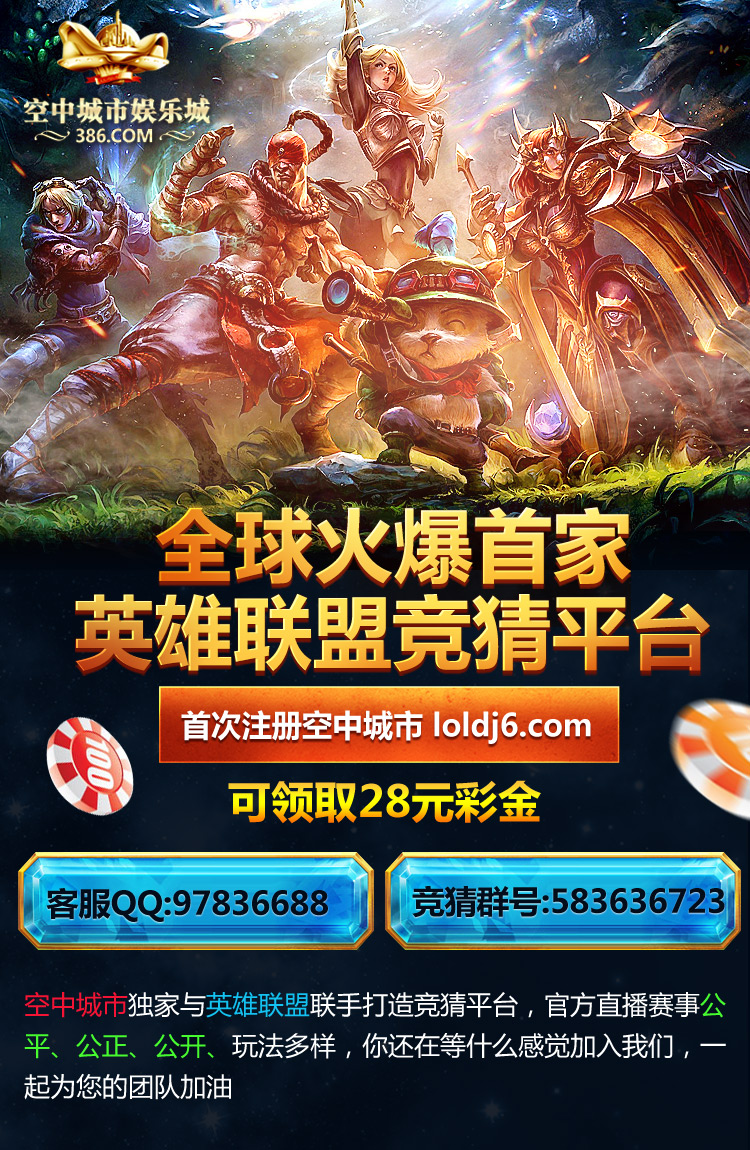
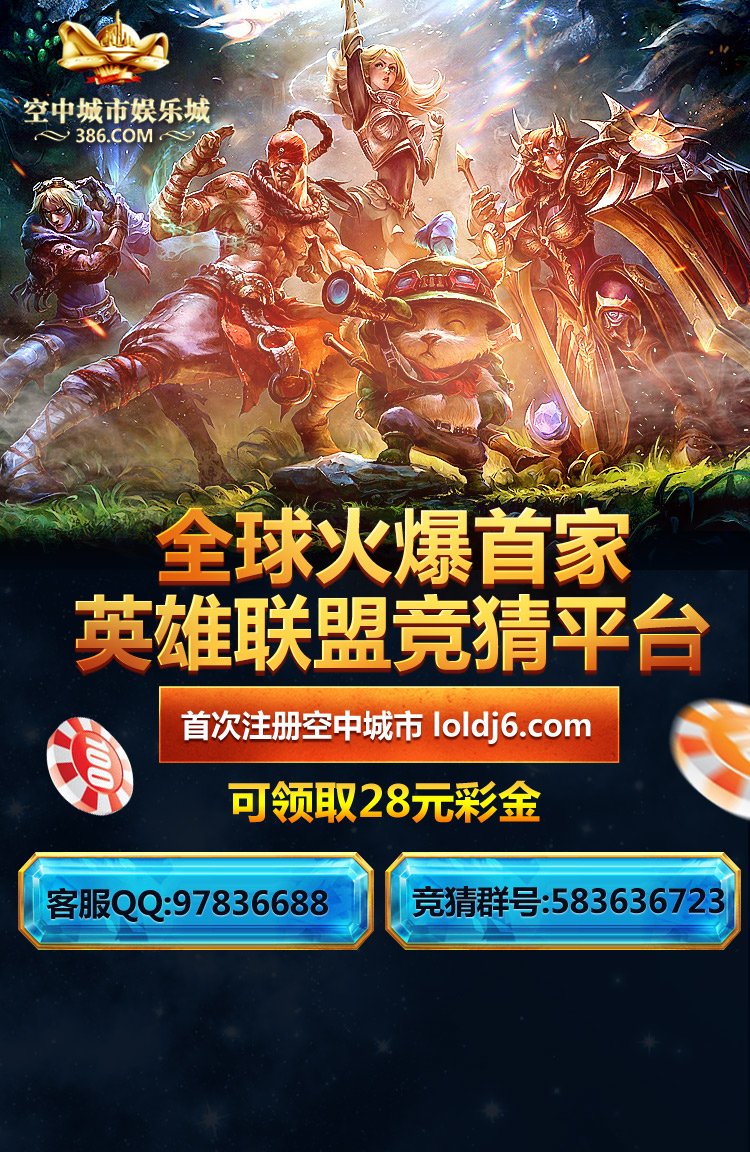
Mod: text

Changed region(s): [[0.0, 0.0913, 1.0, 0.9739], [0.0613, 0.0913, 0.092, 0.1217], [0.0, 0.3043, 0.0307, 0.3348]]

diff --git a/A/css/style.css b/A/css/style.css
@@ -8,9 +8,12 @@ input, textarea, keygen, select, button {margin: 0em;font: -webkit-small-control
 input, textarea {outline: 0;}
 article, aside, footer, header, hgroup, main, nav, section {display: block;}
 body{height: auto;width: 750px;margin: 0 auto;}
+.t-red{color: #f31434;}.t-blue{color: #14c2f1;}.t-green{color: #47fb2f;}
 #wrap{position: relative;width: 100%;padding-bottom: 120px;font-size: 14px;background: #010915;}
 #wrap .A{width: 750px;height: 1150px;}
 #wrap .alink{position: absolute;top: 686px;left: 160px;width: 460px;height: 77px;display: block;}
+
+.aP{position: absolute;left: 0;top: 983px;font-size: 26px;line-height: 42px;color: #fff;padding: 0 24px;}
 
 .fixedLink{position: fixed;bottom: 0;left: 50%;margin-left: -375px;width: 750px;height: 120px;background: #000 url(../images/fixedBar.gif) center no-repeat;}
 .fixedLink li{width: 25%;height: 120px;float: left;}

diff --git a/A/index.html b/A/index.html
@@ -11,6 +11,7 @@
 	<div id="wrap">
 		<img class="A" src="images/A.jpg" alt="空中城市独家与英雄联盟联手打造竞猜平台，官方直播赛事公平、公正、公开、玩法多样，你还在等什么感觉加入我们，一起为您的团队加油" width="750" height="1150">
 		<a href="http://www.loldj8.com" class="alink"></a>
+		<p class="aP"><span class="t-red">空中城市</span>独家与<span class="t-blue">英雄联盟</span>联手打造竞猜平台，官方直播赛事<span class="t-green">公平、公正、公开</span>、玩法多样，你还在等什么感觉加入我们，一起为您的团队加油</p>
 		<ul class="fixedLink">
 			<li><a href="index.html">首页</a></li>
 			<li><a href="http://www.loldj8.com">注册中心</a></li>
